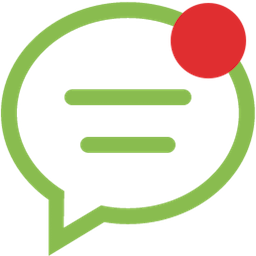
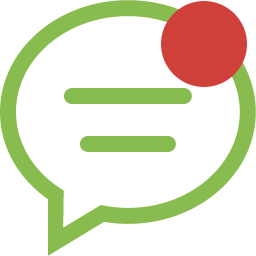
message notifications test

diff --git a/yuzu/src/components/MainScene.js b/yuzu/src/components/MainScene.js
@@ -21,7 +21,8 @@ class MainScene extends Component {
       showMatches: false,
       yuzuLoading: false,
       yuzuLoaded: false,
-      yuzuList: []
+      yuzuList: [],
+      notification: false
      };
   }
 
@@ -29,7 +30,6 @@ class MainScene extends Component {
   // TO DO:
   //  match count notification?
   //  remove user from matches when changing locations
-  
 
   componentDidMount() {
     const { ref, user, location, matching, matchLoading } = this.state
@@ -43,17 +43,41 @@ class MainScene extends Component {
       }
     })
 
-    this.matchRef = firebase.database().ref('matches/' + location + '/')
-
-    this.matchRef.on('child_added', (snapshot) => {
-      this.setState({ matchLoading: true })
-      
+    var messageStatus = ref.child('users/' + user + '/unseenMessagesStatus/')
+    messageStatus.once('value', snapshot => {
+      if (snapshot.val() == null) {
+        messageStatus.set(false)
+        this.setState({ notification: false })
+      } else {
+        this.setState({ notification: snapshot.val() })
+      }
     })
 
+    this.unseenMessageRef = firebase.database().ref('users/' + user + '/unseenMessagesStatus/')
+    this.unseenMessageRef.on('child_changed', (snapshot) => {
+      console.log(snapshot.val())
+      // this.setState({ notification: snapshot.val() })
+    })
+
+
+    // this.unseenMessageRef = firebase.database().ref('users/' + user + '/messageList/')
+    
+    // this.unseenMessageRef.on('child_added', (snapshot) => {
+    //   console.log('hi')
+    //   this.setState({ notification: true })
+    // })
+    // this.unseenMessageRef.on('child_changed', (snapshot) => {
+    //   console.log('hey')
+    //   this.setState({ notification: true })
+    // })
+
+    this.matchRef = firebase.database().ref('matches/' + location + '/')
+    this.matchRef.on('child_added', (snapshot) => {
+      this.setState({ matchLoading: true }) 
+    })
     this.matchRef.on('child_changed', (snapshot) => {
       this.setState({ matchLoading: true })
     })
-
     this.matchRef.on('child_removed', (snapshot) => {
       this.setState({ matchLoading: true })
     })
@@ -73,9 +97,14 @@ class MainScene extends Component {
       <TouchableHighlight onPress={this.onMenuPress.bind(this)}>
         <Image style={menuStyle} source={require('../images/menu.png')} />
       </TouchableHighlight>
+
+      {this.renderNotifications()}
+
+      {/*
       <TouchableHighlight onPress={this.onMessagePress.bind(this)}>
         <Image style={messageStyle} source={require('../images/message.png')} />
       </TouchableHighlight>
+      */}
       <View style={buttonContainerStyle}>
       <TouchableOpacity onPress={this.onAdd.bind(this)} style={buttonStyle}>
         <Text style={buttonTextStyle}>
@@ -136,6 +165,26 @@ class MainScene extends Component {
     </View>
 
    )   
+  }
+
+  renderNotifications() {
+    const { notification } = this.state
+    const { messageStyle } = styles
+
+    if (notification) {
+      return (
+      <TouchableHighlight onPress={this.onMessagePress.bind(this)}>
+        <Image style={messageStyle} source={require('../images/message_notification.png')} />
+      </TouchableHighlight>
+      )
+    } else {
+      return (
+      <TouchableHighlight onPress={this.onMessagePress.bind(this)}>
+        <Image style={messageStyle} source={require('../images/message.png')} />
+      </TouchableHighlight>
+      )
+    }
+
   }
 
   renderMatches() {

diff --git a/yuzu/src/app.js b/yuzu/src/app.js
@@ -57,13 +57,13 @@ class App extends Component {
           configureScene={this.configureScene.bind(this)}
           renderScene={this.renderScene.bind(this)}
           initialRoute={{
-            //title: 'Main',
+            title: 'Main',
             //title: 'Location',
             //title: 'Search',
             //title: 'SignUp',
             //title: 'SignIn',
             //title: 'Menu',
-            title: 'MessageList',
+            //title: 'MessageList',
             //title: 'Message',
             passProps: {
               user: this.state.user,

diff --git a/yuzu/src/components/MessageListScene.js b/yuzu/src/components/MessageListScene.js
@@ -21,6 +21,11 @@ class MessageListScene extends Component {
   // TO DO:
   //  add more info to list items (last message time, last message?)
 
+  componentDidMount() {
+    const { ref, user } = this.state
+    ref.child('users/' + user + '/unseenMessagesStatus/').set(false)
+  }
+
   render() {
     const { viewStyle, messageStyle, backStyle, backTextStyle } = styles
 

diff --git a/yuzu/src/components/MessageScene.js b/yuzu/src/components/MessageScene.js
@@ -139,6 +139,8 @@ class MessageScene extends Component {
         text: message,
         time: dateString
       }
+      
+      ref.child('users/' + match.uid + '/unseenMessagesStatus/').set(true)
 
       ref.child('users/' + match.uid + '/messageList/' + user + '/messages/').once('value', snapshot => {
         if (snapshot.val() == null) {
